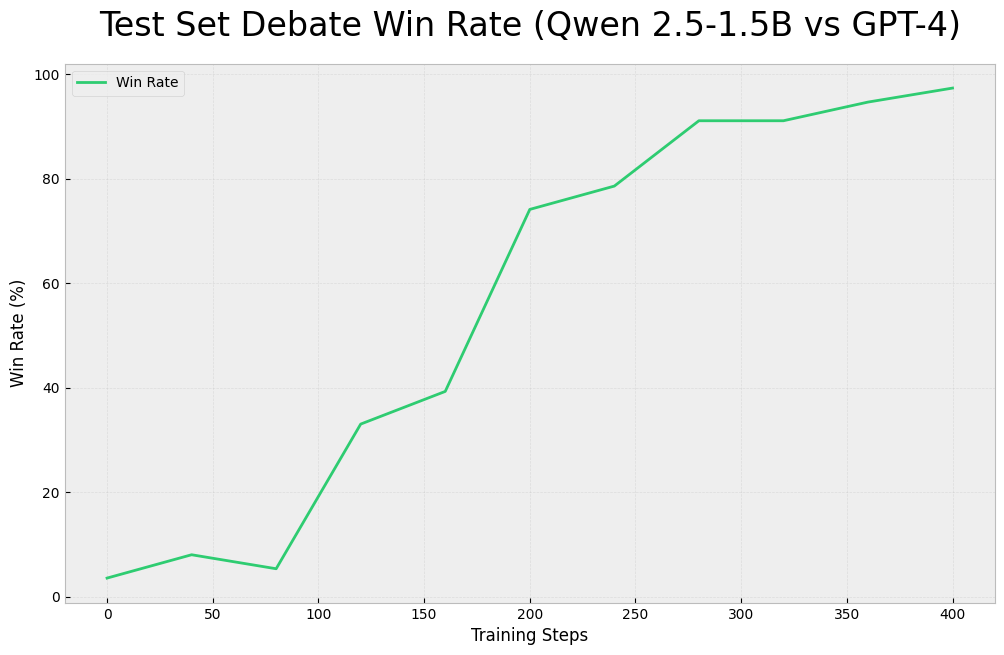
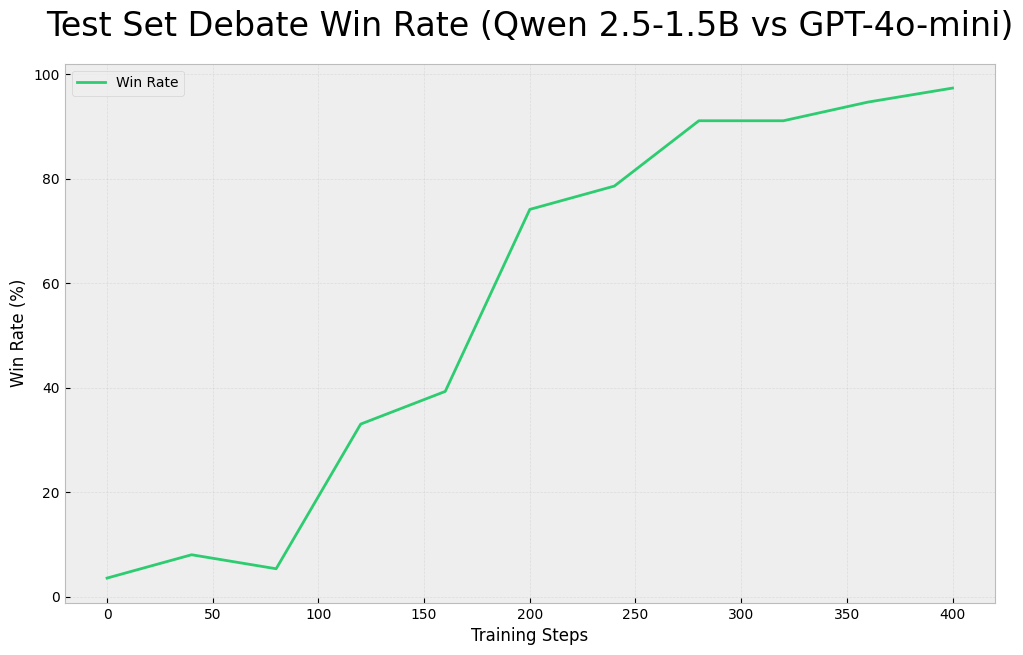
update figure and readme

diff --git a/README.md b/README.md
@@ -48,8 +48,8 @@ export ANTHROPIC_API_KEY="your-key-here"  # If using Anthropic models
 ```bash
 python main.py \
     --model_name "Qwen/Qwen2.5-1.5B-Instruct" \
-    --judge_model_name "gpt-4" \
-    --compare_model_name "gpt-4" \
+    --judge_model_name "gpt-4o" \
+    --compare_model_name "gpt-4o-mini" \
     --dataset_name "debate" \
     --output_dir "output"
 ```
@@ -85,9 +85,9 @@ Final debate position
 The debate framework demonstrates the effectiveness of GRPO training:
 
 ![Training Progress](figures/win_rate.png)
-*Win rate of Qwen 2.5-1.5B vs GPT-4-mini throughout training, showing improvement from 3% to >95% win rate*
+*Win rate of Qwen 2.5-1.5B vs GPT-4o-mini throughout training, showing improvement from 3% to >95% win rate*
 
-1. **Base Model vs GPT-4 Performance**:
+1. **Base Model vs GPT-4o Performance**:
    - Initial performance: 3% win rate
    - Final performance: >95% win rate
    - Shows significant improvement in debate capabilities
@@ -95,7 +95,7 @@ The debate framework demonstrates the effectiveness of GRPO training:
 2. **Cross-Model Generalization**:
    - Initial model performance: 30% win rate
    - Fine-tuned model performance: >95% win rate
-   - Results achieved with a different judge (GPT-4) than training
+   - Results achieved with a different judge (GPT-4o) than training
    - Demonstrates robust improvement beyond reward hacking
 
 ### Future Applications
